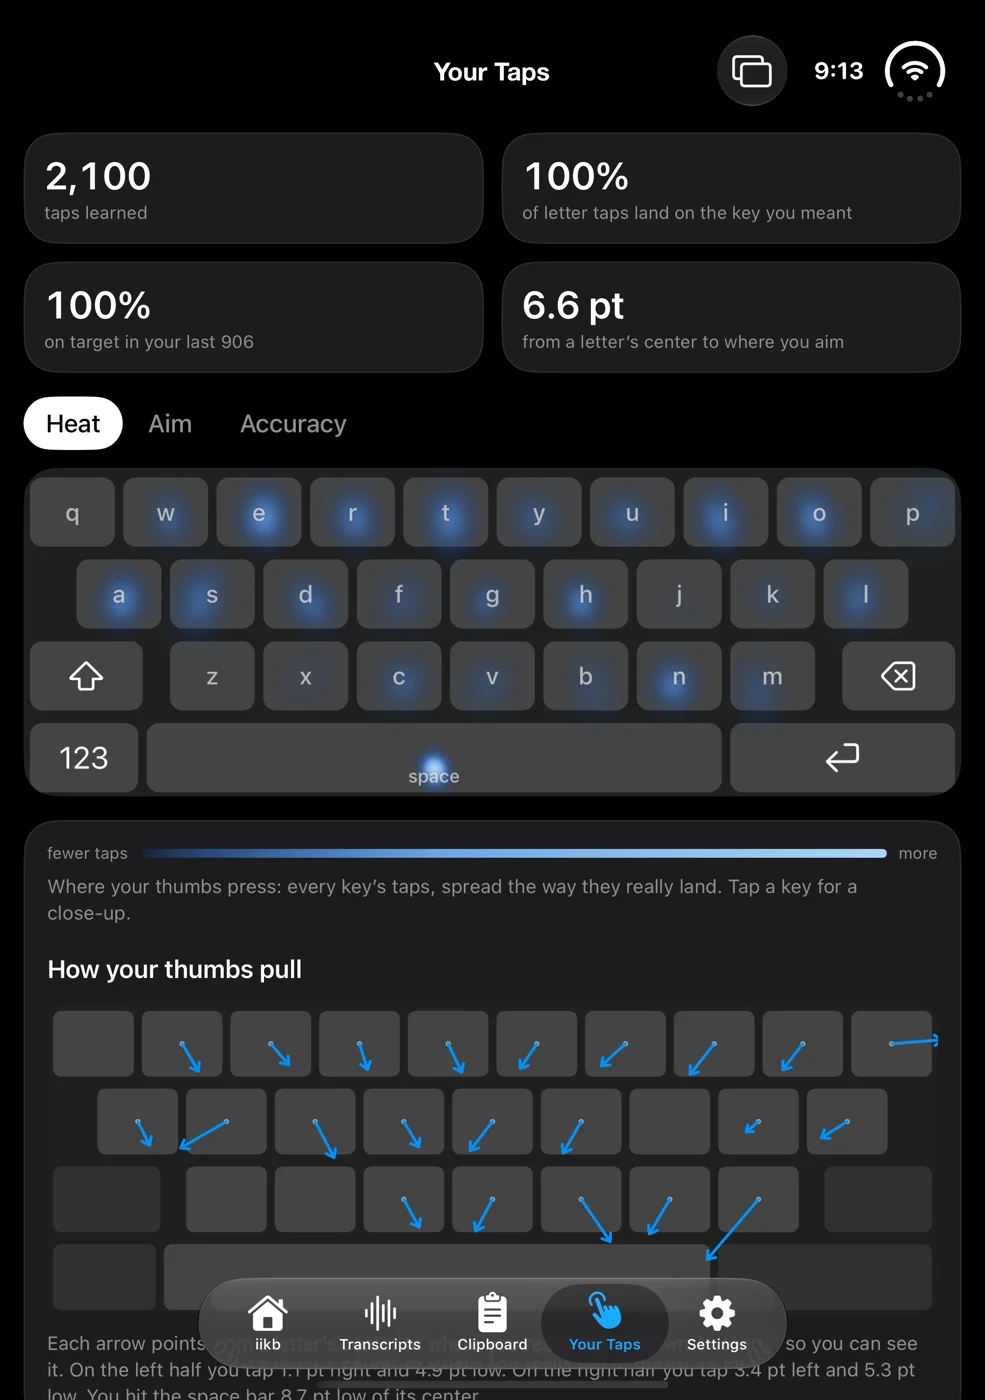
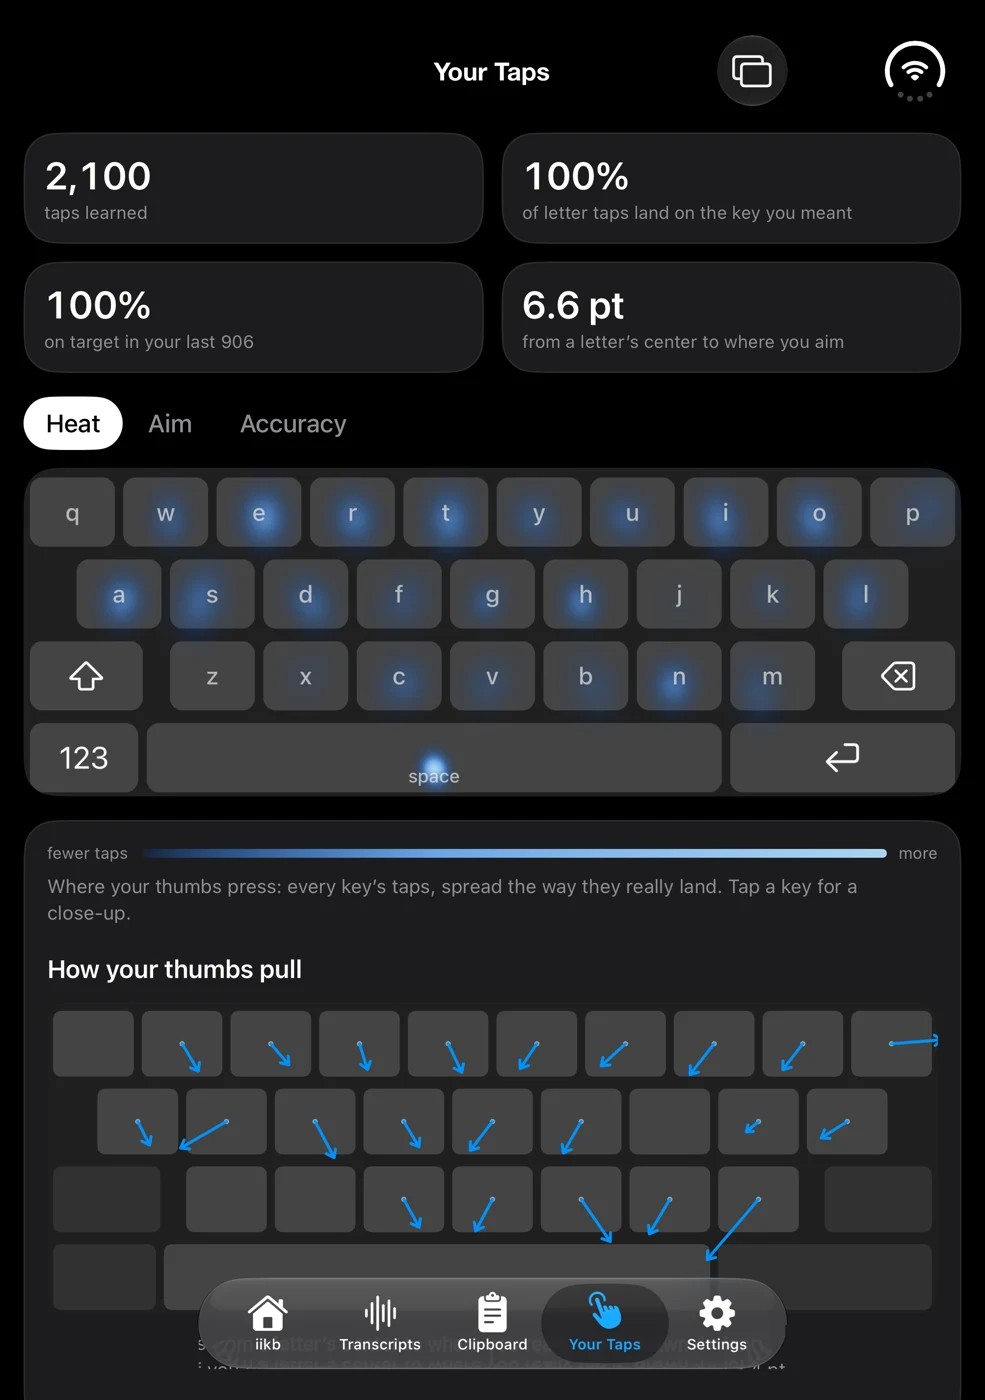
fix(site): the turned Duo's capture drops its 9:13 clock and the text under its tab bar, screens swap at the halfway angle only, phone changelog lines show whole, the Duo's edge catches light in dark; dead rules out

Changed region(s): [[0.0305, 0.9521, 0.6701, 1.0], [0.7919, 0.9521, 0.9442, 0.9829], [0.8223, 0.0307, 0.8832, 0.0614]]

diff --git a/web/site/page.css b/web/site/page.css
@@ -75,6 +75,7 @@ h1 span { color: var(--ink-3); }
 .base .body { border-radius: 64px 0 0 64px; }
 .lid .body { border-radius: 0 64px 64px 0; }
 .body:nth-child(1) { background: #050506; box-shadow: inset 0 0 0 1.5px rgb(255 255 255 / .16); }
+@media (prefers-color-scheme: dark) { .body:nth-child(5) { box-shadow: 0 0 0 1px rgb(255 255 255 / .1), 0 0 140px 10px rgb(150 160 255 / .1); } }
 .body:nth-child(2) { transform: translateZ(-2.5px); } .body:nth-child(3) { transform: translateZ(-5px); } .body:nth-child(4) { transform: translateZ(-7.5px); } .body:nth-child(5) { transform: translateZ(-10px); background: #0b0b0c; }
 .glass { overflow: hidden; background: #000; transform: translateZ(.5px); }
 .base .inner { inset: 16.5px 0 16.5px 14.5px; border-radius: 50px 0 0 50px; }
@@ -170,11 +171,6 @@ h1 span { color: var(--ink-3); }
 section:not(.stage) { padding-block: clamp(56px, 8vw, 112px) 0; }
 section:not(.stage):not(.themes):not(.install) { border-top: 1px solid var(--rule); margin-top: clamp(56px, 8vw, 112px); padding-top: clamp(32px, 5vw, 56px); }
 section:not(.stage) > h2 { margin-bottom: clamp(28px, 4vw, 48px); }
-.sec { display: flex; align-items: center; gap: 14px; padding-top: 14px; border-top: 1px solid var(--rule); color: var(--ink-2); margin-bottom: clamp(32px, 5vw, 56px); }
-.sec .idx { color: var(--ink-3); }
-.sec h2 { font-weight: 400; letter-spacing: -.01em; }
-.split { display: grid; grid-template-columns: minmax(0, 1.15fr) minmax(0, 1fr); gap: clamp(24px, 5vw, 72px); align-items: end; margin-bottom: clamp(36px, 5vw, 56px); }
-.split > p { color: var(--ink-2); max-width: 33em; }
 .note { margin-top: 20px; font-size: 13px; color: var(--ink-3); max-width: 62em; }
 
 
@@ -248,9 +244,6 @@ section:not(.stage) > h2 { margin-bottom: clamp(28px, 4vw, 48px); }
 .links span { color: var(--ink-3); font-size: 14px; }
 
 /* Changelog */
-blockquote { margin: 0; border-left: 2px solid var(--red); padding-left: 18px; }
-blockquote p { font-size: 19px; line-height: 1.4; letter-spacing: -.01em; }
-blockquote a { display: inline-block; margin-top: 8px; color: var(--ink-3); text-decoration: none; }
 .stats { display: grid; grid-template-columns: repeat(4, minmax(0, 1fr)); margin: 0 0 14px; border-top: 1px solid var(--rule); }
 .stats div { padding: 16px 0 6px; }
 .stats div + div { border-left: 1px solid var(--rule); padding-left: 20px; }
@@ -315,7 +308,7 @@ section.install { display: grid; grid-template-columns: minmax(0, 1.15fr) minmax
   .top .kc { margin-left: auto; }
   .stage { margin-top: -64px; }
   .pin { padding-top: 64px; }
-  .split, section.install, .code-grid, .bench { grid-template-columns: minmax(0, 1fr); }
+  section.install, .code-grid, .bench { grid-template-columns: minmax(0, 1fr); }
   .links { grid-template-columns: minmax(0, 1fr); }
   .stats { grid-template-columns: repeat(2, minmax(0, 1fr)); }
   .stats div:nth-child(3) { border-left: 0; padding-left: 0; }
@@ -324,8 +317,8 @@ section.install { display: grid; grid-template-columns: minmax(0, 1.15fr) minmax
   .foot-about { grid-column: 1 / -1; }
   .ticker li { gap: 12px; font-size: 14px; }
   .ticker li time { display: none; }
-  .ticker { --row: 74px; }
-  .ticker li span { white-space: normal; display: -webkit-box; -webkit-box-orient: vertical; -webkit-line-clamp: 2; line-height: 1.35; }
+  .ticker { --row: 96px; }
+  .ticker li span { white-space: normal; display: -webkit-box; -webkit-box-orient: vertical; -webkit-line-clamp: 3; line-height: 1.35; }
 }
 @media (max-width: 440px) {
   .code pre { font-size: 12px; }

diff --git a/web/site/page.js b/web/site/page.js
@@ -86,7 +86,7 @@ const frame = () => {
   const rx = mix(narrow ? 6 : 9, 5, open) - lean.y * 8, ry = mix(narrow ? -14 : -22, -8, open) * (1 - turn * 0.6) + lean.x * 10;
   rig.style.transform = `perspective(3600px) rotateX(${rx}deg) rotateY(${ry}deg) rotateZ(${90 * turn}deg) translateX(${(W / 2) * (1 - open)}px)`;
   lid.style.transform = `rotateY(${-180 * (1 - open)}deg)`;
-  duo.style.setProperty("--turn", clamp((turn - 0.47) / 0.06));
+  duo.style.setProperty("--turn", turn < 0.5 ? 0 : 1);
   hero.style.opacity = 1 - span(p, 0.03, 0.22);
   hero.style.transform = `translateY(${-40 * span(p, 0.03, 0.22)}px)`;
   hero.inert = p > 0.15;

diff --git a/web/site/shots/README.md b/web/site/shots/README.md
@@ -10,4 +10,4 @@ Crops of existing simulator screenshots, rather than new captures of the latest 
 
 The five `theme-*.webp` files are the project's existing theme captures. Replace layouts with new simulator shots when device access is available; preserve filenames so website and README references stay together.
 
-`duo-open-portrait-taps.webp` is `duo/app/site-heat-open-side-taps-dark.png` (the simulator's Your Taps page on the open Duo, turned), scaled to 985 × 1400. The hero's Duo shows it once it turns.
+`duo-open-portrait-taps.webp` is `duo/app/site-heat-open-side-taps-dark.png` (the simulator’s Your Taps page on the open Duo, turned) with its clock and the text under its tab bar painted out, scaled to 985 × 1400. The hero's Duo shows it once it turns.
